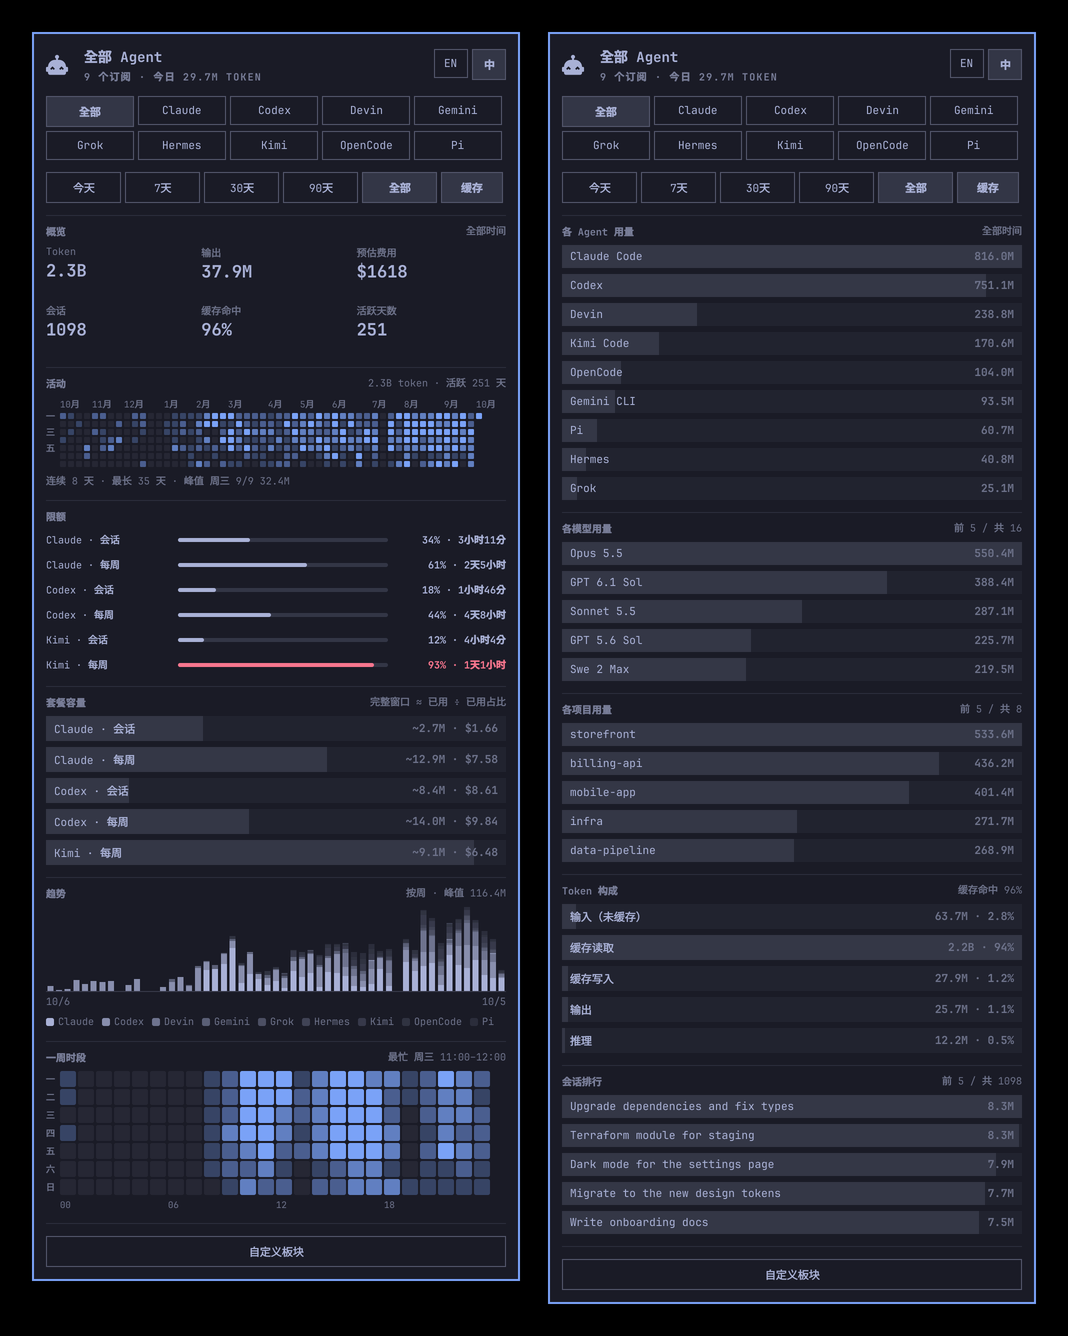
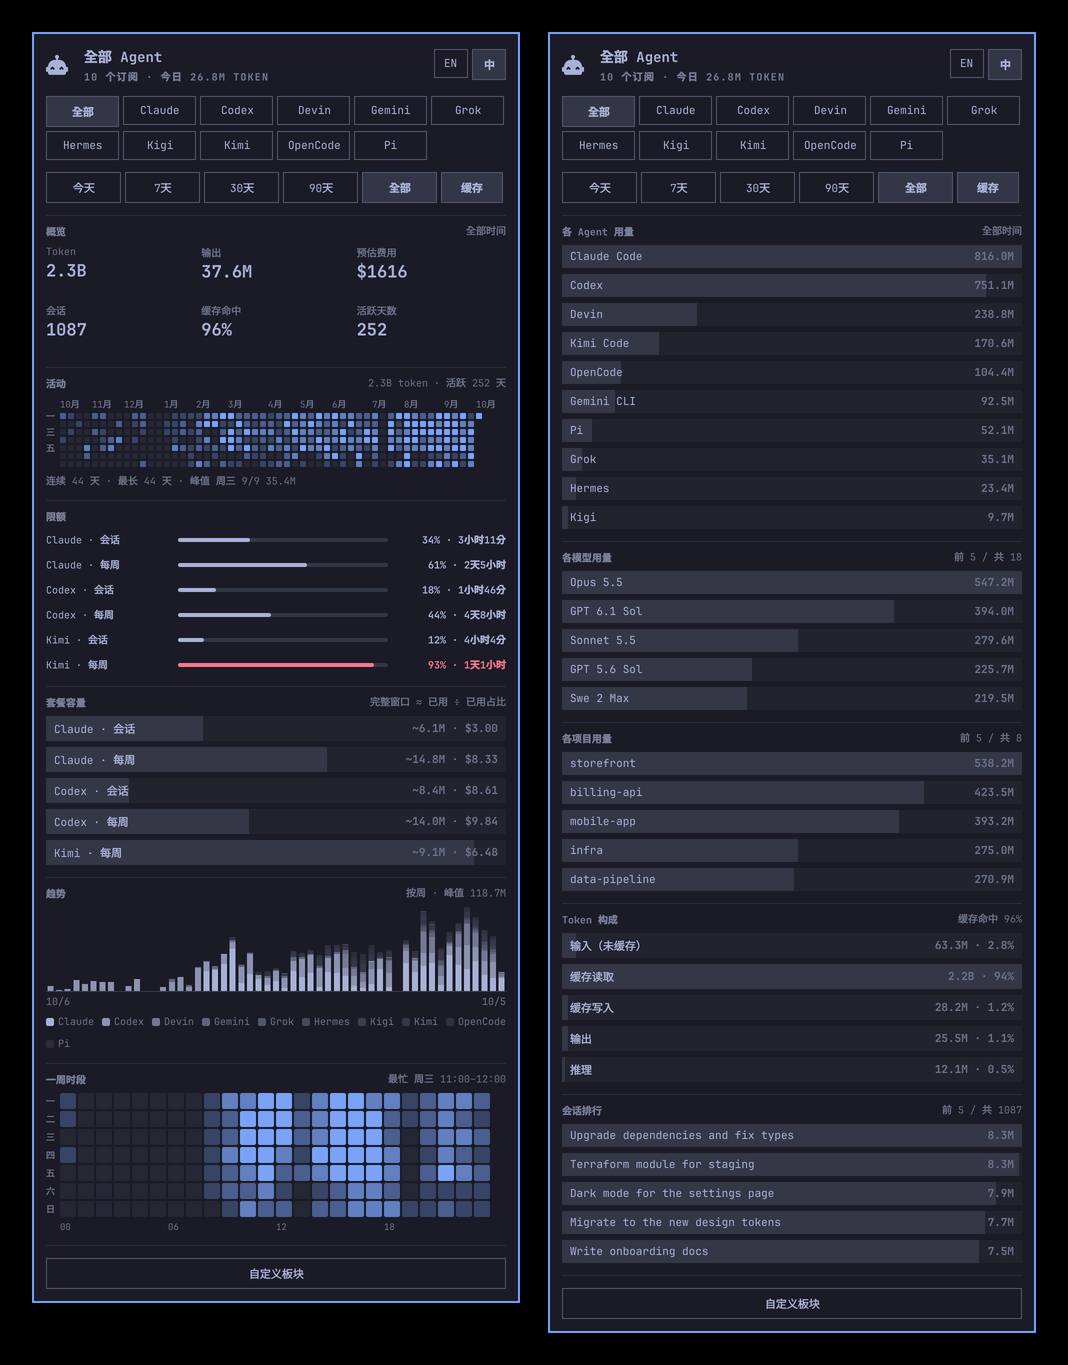
Read Kigi sessions, and Grok's from its own source
Kigi is a fork of Grok Build, so one reader now serves both: a session
folder's usage.json where the build writes one, its turn log otherwise.
A turn's figure includes its subagents, so their own sessions are
skipped, and since a turn is a total rather than a request it reports
no context size.

Reading Grok Build's source corrected the Grok adapter, which had been
written from other plugins' readers: inputTokens is the whole prompt,
cache writes included, so they were being counted twice.

Agents with no plan to name say "Local logs" under their name.

diff --git a/Panel.qml b/Panel.qml
@@ -843,7 +843,8 @@ Panel {
     for (var i = 0; i < providers.length; i++)
       if (providers[i].providerId === row.agent) name = providers[i].providerName
     return name + " · " + projectName(row.project) + " · " + clock(row.start)
-      + "\n" + formatDuration(row.end - row.start) + " · " + tr("peak context %1").arg(tokens(row.peak))
+      // An agent that logs a turn's total rather than each request has no context size.
+      + "\n" + formatDuration(row.end - row.start) + (row.peak > 0 ? " · " + tr("peak context %1").arg(tokens(row.peak)) : "")
       + " · " + (row.priced ? money(row.cost) : row.cost > 0 ? money(row.cost) + "+" : tr("unpriced"))
   }
 

diff --git a/Strings.js b/Strings.js
@@ -9,6 +9,7 @@ var zh = {
   "Agents": "全部 Agent",
   "Subscription": "订阅",
   "Prepaid": "预付费",
+  "Local logs": "本地日志",
   "%1 subscription": "%1 个订阅",
   "%1 subscriptions": "%1 个订阅",
   "%1 tokens today": "今日 %1 token",

diff --git a/README.md b/README.md
@@ -82,7 +82,8 @@ refreshes, Esc closes. From a script:
 | Pi | — | `~/.pi/agent/sessions/**/*.jsonl` (and oh-my-pi's `~/.omp`) |
 | Hermes | — | `~/.hermes/state.db`, and each profile's |
 | Gemini CLI | — | `~/.gemini/tmp/*/chats/` |
-| Grok | — | `~/.grok/sessions/**/usage.json` |
+| Grok | — | `~/.grok/sessions/`: `usage.json`, or the turn log on older builds |
+| Kigi | — | `~/.kigi/sessions/**/updates.jsonl` |
 | Devin | none: Devin has no usage API | `~/.local/share/devin/cli/transcripts/*.json` |
 | Kimi Code | windows and balance, from the collector in `bin/collect-kimi` | `~/.kimi-code/sessions/**/wire.jsonl` |
 | Fireworks | prepaid balance, from Omarchy's collector | — (day totals only) |
@@ -98,13 +99,13 @@ Cursor, Z.ai and others — adds its limits here as well, and an agent this
 plugin has no adapter for still gets its limits and day totals that way.
 
 **How far each adapter has been checked.** Claude Code, Codex, Devin and Kimi
-Code were verified against real logs, total for total. OpenCode, Pi, Hermes and
-Gemini CLI follow each project's own source or documented format and are tested
-against files built to that format, but have not yet been run against a real
-installation. Grok's CLI is closed, so its adapter follows the readers in other
-Omarchy plugins; treat its numbers as provisional. Hermes and Grok keep totals
-per session or turn rather than per request, so their hour-by-hour detail is
-only as fine as that.
+Code were verified against real logs, total for total. OpenCode, Pi, Hermes,
+Gemini CLI, Grok and Kigi follow each project's own source or documented format
+and are tested against files built to that format, but have not yet been run
+against a real session that spent tokens. Hermes, Grok and Kigi keep totals per
+session or turn rather than per request, so their hour-by-hour detail is only
+as fine as that, their request counts are turns, and a turn's figure includes
+the subagents it ran.
 
 ## What it reads and what it sends
 

diff --git a/README.zh-CN.md b/README.zh-CN.md
@@ -72,7 +72,8 @@ omarchy plugin disable omarchy.agents
 | Pi | — | `~/.pi/agent/sessions/**/*.jsonl`（以及 oh-my-pi 的 `~/.omp`） |
 | Hermes | — | `~/.hermes/state.db`，以及各 profile 的 |
 | Gemini CLI | — | `~/.gemini/tmp/*/chats/` |
-| Grok | — | `~/.grok/sessions/**/usage.json` |
+| Grok | — | `~/.grok/sessions/`：`usage.json`，旧版本则读取轮次日志 |
+| Kigi | — | `~/.kigi/sessions/**/updates.jsonl` |
 | Devin | 无：Devin 没有用量接口 | `~/.local/share/devin/cli/transcripts/*.json` |
 | Kimi Code | 窗口和余额，来自 `bin/collect-kimi` | `~/.kimi-code/sessions/**/wire.jsonl` |
 | Fireworks | 预付费余额，来自 Omarchy 的采集器 | —（只有每日总量） |
@@ -86,10 +87,10 @@ omarchy plugin disable omarchy.agents
 适配器的 Agent，也能通过这种方式显示限额和每日总量。
 
 **各适配器的验证程度。** Claude Code、Codex、Devin 和 Kimi Code 用真实日志逐项
-核对过。OpenCode、Pi、Hermes 和 Gemini CLI 依据各项目自己的源码或文档格式编写，
-并用按该格式构造的文件测试过，但还没有在真实安装上跑过。Grok 的 CLI 不开源，
-它的适配器参照了其他 Omarchy 插件的读取方式，数字请当作暂定。Hermes 和 Grok
-保存的是每个会话或每轮的总量而不是每次请求，所以它们的按小时明细只能精确到这个粒度。
+核对过。OpenCode、Pi、Hermes、Gemini CLI、Grok 和 Kigi 依据各项目自己的源码或
+文档格式编写，并用按该格式构造的文件测试过，但还没有在真正消耗过 token 的会话上
+跑过。Hermes、Grok 和 Kigi 保存的是每个会话或每轮的总量而不是每次请求，所以它们的
+按小时明细只能精确到这个粒度，请求数实际是轮数，一轮的数字包含它启动的子 Agent。
 
 ## 读取什么、发送什么
 

diff --git a/NOTICE.md b/NOTICE.md
@@ -13,8 +13,10 @@ The log adapters in `bin/usage-index` were written for this plugin. Where an
 agent's format had to be learned, it was learned from that agent's own source
 or documentation — [OpenCode](https://github.com/anomalyco/opencode),
 [Pi](https://github.com/earendil-works/pi),
-[Hermes](https://github.com/NousResearch/hermes-agent) and
-[Gemini CLI](https://github.com/google-gemini/gemini-cli) — and from how other
+[Hermes](https://github.com/NousResearch/hermes-agent),
+[Gemini CLI](https://github.com/google-gemini/gemini-cli),
+[Grok Build](https://github.com/xai-org/grok-build) and
+[Kigi](https://github.com/BeforeUgone123/Kigi-CLI), a fork of it — and from how other
 MIT-licensed Omarchy plugins read the same files, with thanks to their authors:
 [omarchy-agent-collectors](https://github.com/rohaquinlop/omarchy-agent-collectors),
 [n0d3x.agents](https://github.com/n0d3xt-max/n0d3x.agents),
@@ -26,7 +28,8 @@ No code was copied from them.
 The marks in `assets/` identify the services whose usage is shown. They are
 trademarks of their owners — Anthropic, OpenAI, Cognition, Moonshot AI and
 Fireworks AI — and are not covered by this plugin's license. The Kimi mark is
-used under the license in `assets/kimi.LICENSE`.
+used under the license in `assets/kimi.LICENSE`; the Kigi mark is the Kigi
+project's own.
 
 Prices in `pricing.json` are copied from each provider's public price page,
 named in that file.
